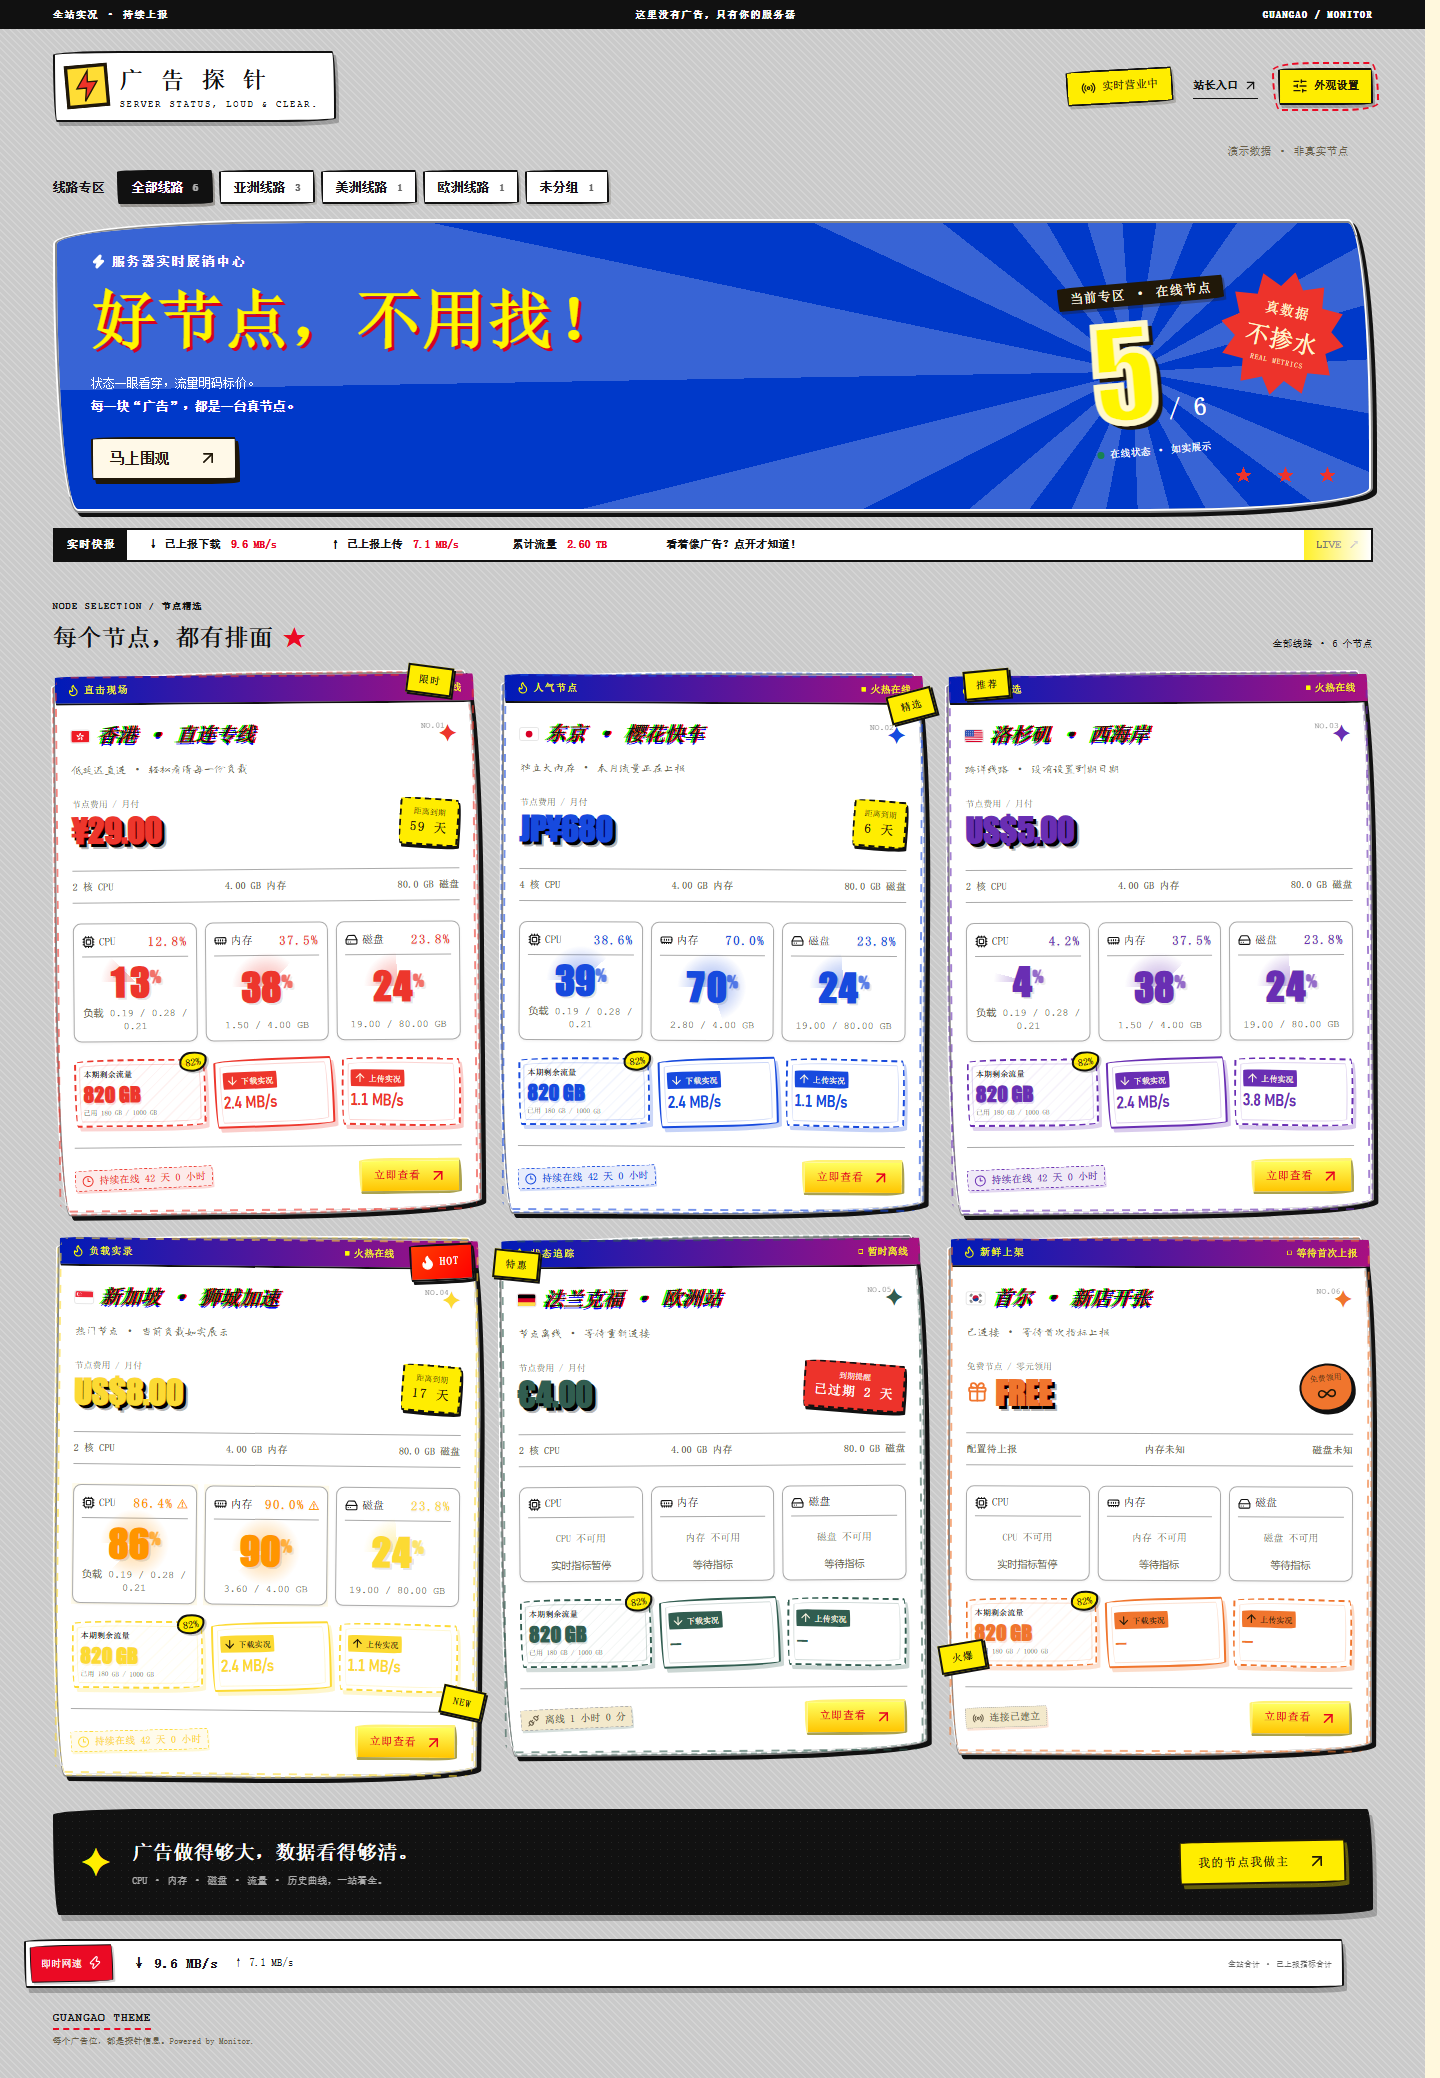
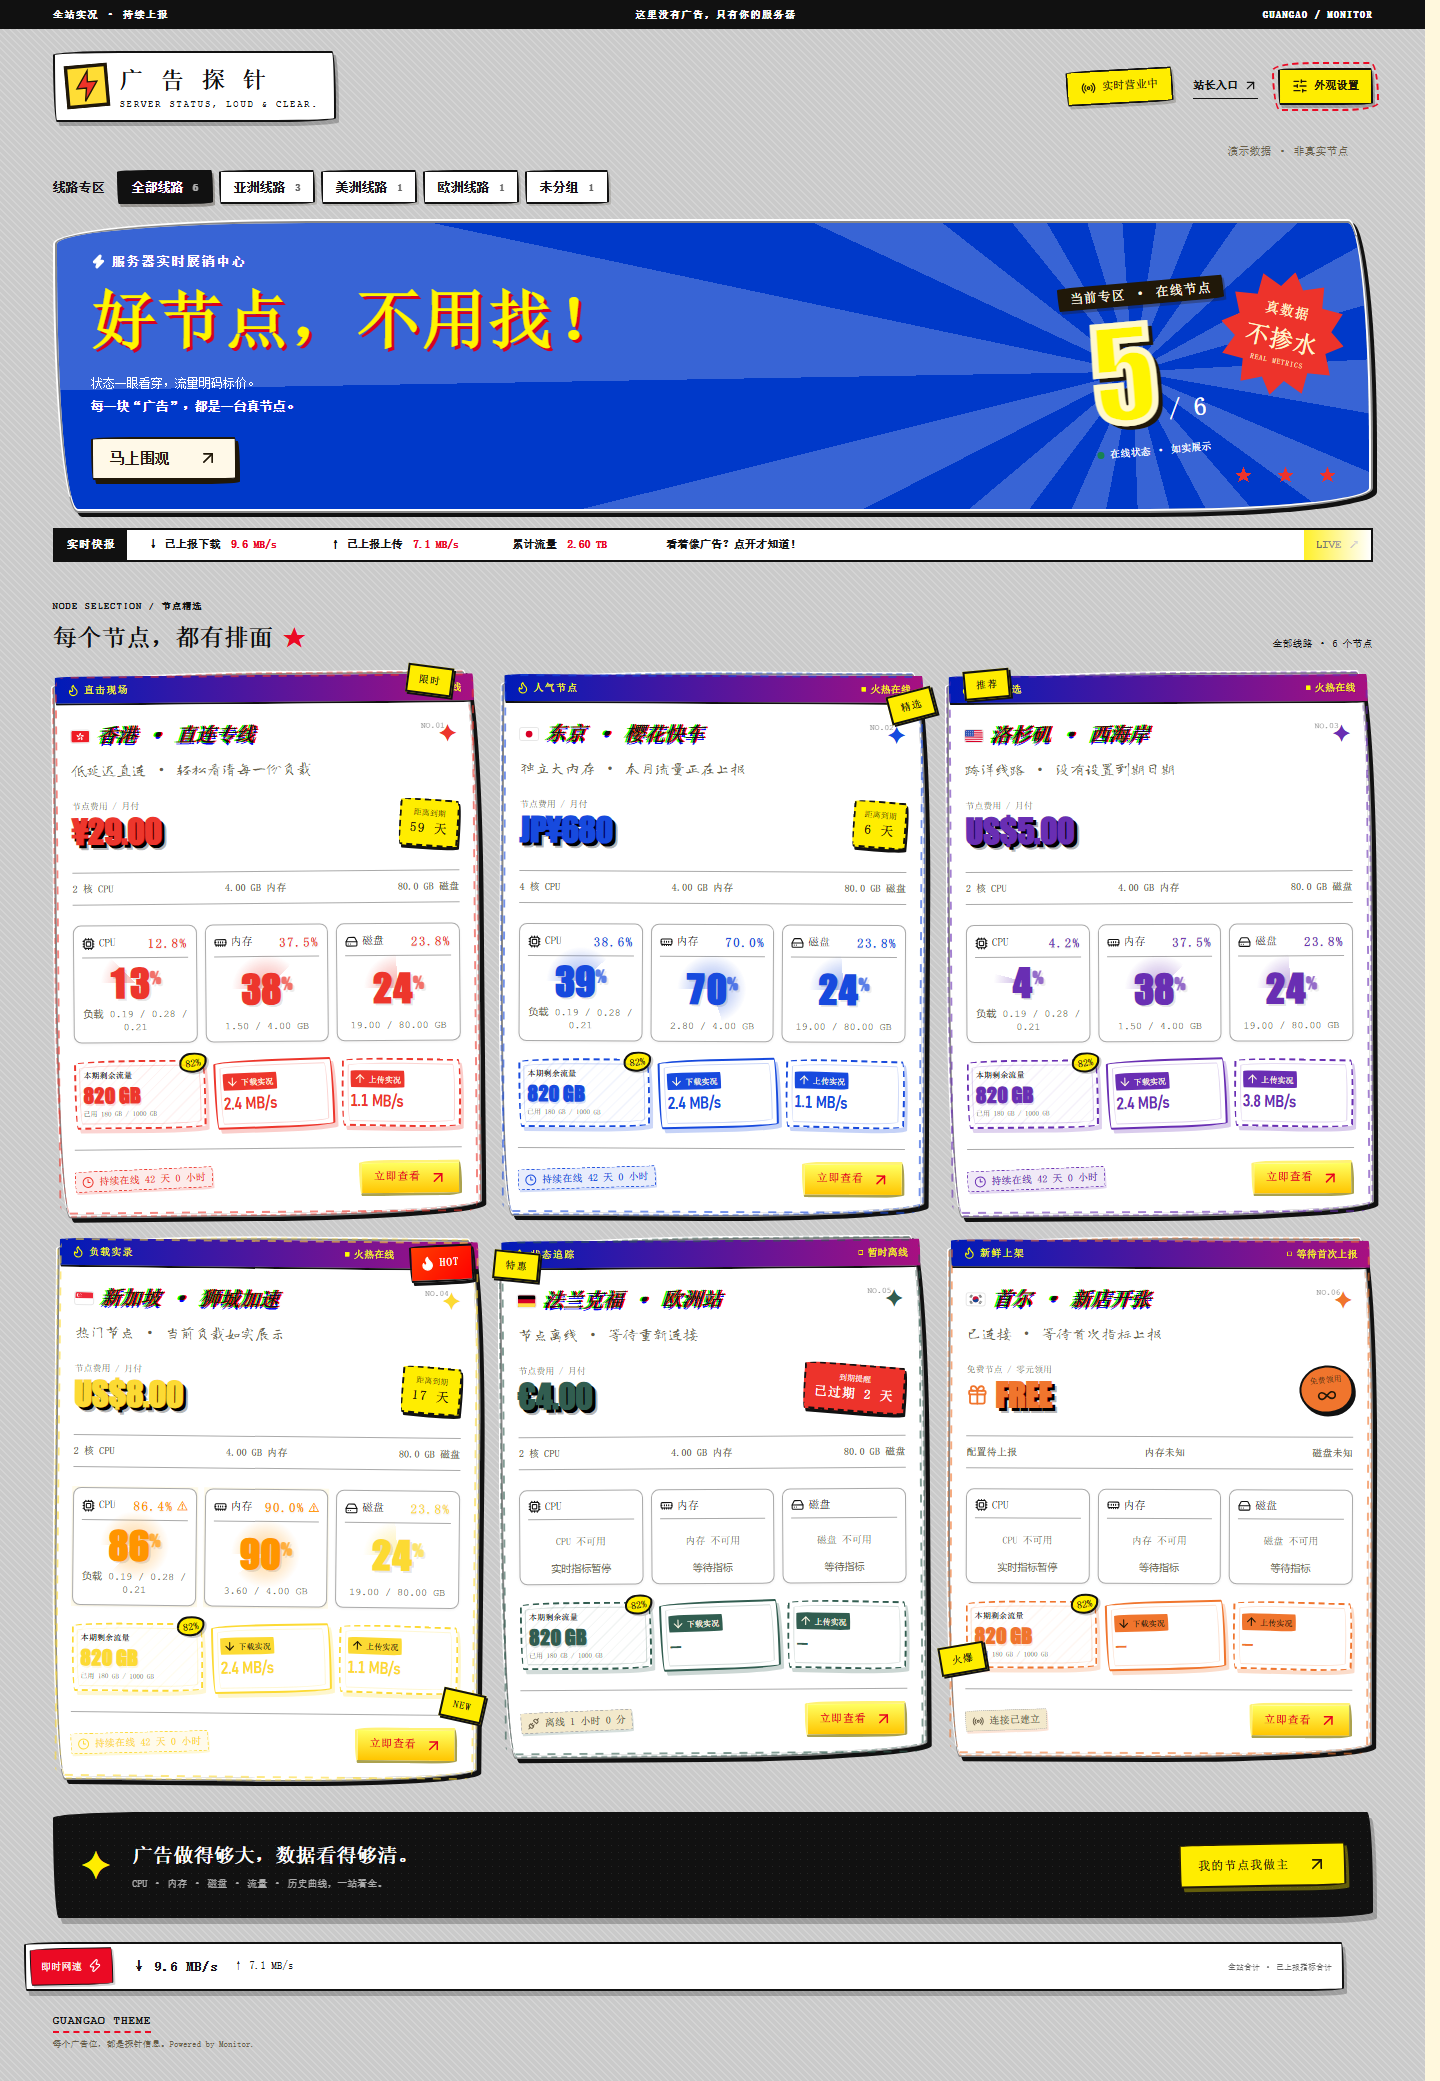
fix: enlarge handwritten server notes

diff --git a/tests/note-font.spec.ts b/tests/note-font.spec.ts
@@ -5,6 +5,7 @@ for (const variant of ['promo', 'neon', 'retro']) test(`${variant} notes load a 
   await page.goto('/');
   const note = page.locator('.card-remark').first();
   await expect(note).toBeVisible();
+  await expect(note).toHaveCSS('font-size', '15px');
   await expect(note).toHaveCSS('font-family', '"Guangao Note", KaiTi, STKaiti, cursive');
   expect(await page.evaluate(async () => {
     const loaded = await document.fonts.load('12px "Guangao Note"', 'CPU 有多忙，一眼就知道');
@@ -13,6 +14,6 @@ for (const variant of ['promo', 'neon', 'retro']) test(`${variant} notes load a 
   expect(await page.locator('.card-title h3').first().evaluate(el => getComputedStyle(el).fontFamily)).not.toContain('Guangao Note');
   expect(await page.locator('.resource-mega-number').first().evaluate(el => getComputedStyle(el).fontFamily)).not.toContain('Guangao Note');
   await page.setViewportSize({ width: 390, height: 844 });
-  await expect(note).toHaveCSS('font-size', '11px');
+  await expect(note).toHaveCSS('font-size', '15px');
   expect(await page.evaluate(() => document.documentElement.scrollWidth <= innerWidth)).toBe(true);
 });

diff --git a/src/monitor-wall.css b/src/monitor-wall.css
@@ -953,9 +953,10 @@ select:focus-visible {
 }
 .card-remark {
   font-family: "Guangao Note", "KaiTi", "STKaiti", cursive;
+  line-height: 1.2;
   font-weight: 400;
   padding: 0 0 8px 0;
-  font-size: 10px;
+  font-size: 15px;
   color: var(--muted-foreground);
   min-height: 16px;
   overflow-wrap: anywhere;
@@ -1375,7 +1376,7 @@ select:focus-visible {
   font-size: 10px;
 }
 .card-remark {
-  font-size: 11px;
+  font-size: 15px;
 }
 .traffic-row {
   font-size: 10px;
@@ -2207,7 +2208,7 @@ select:focus-visible {
     font-size: 22px;
   }
   .card-remark {
-    font-size: 11px;
+    font-size: 15px;
   }
   .offer-price > strong {
     font-size: 37px;
